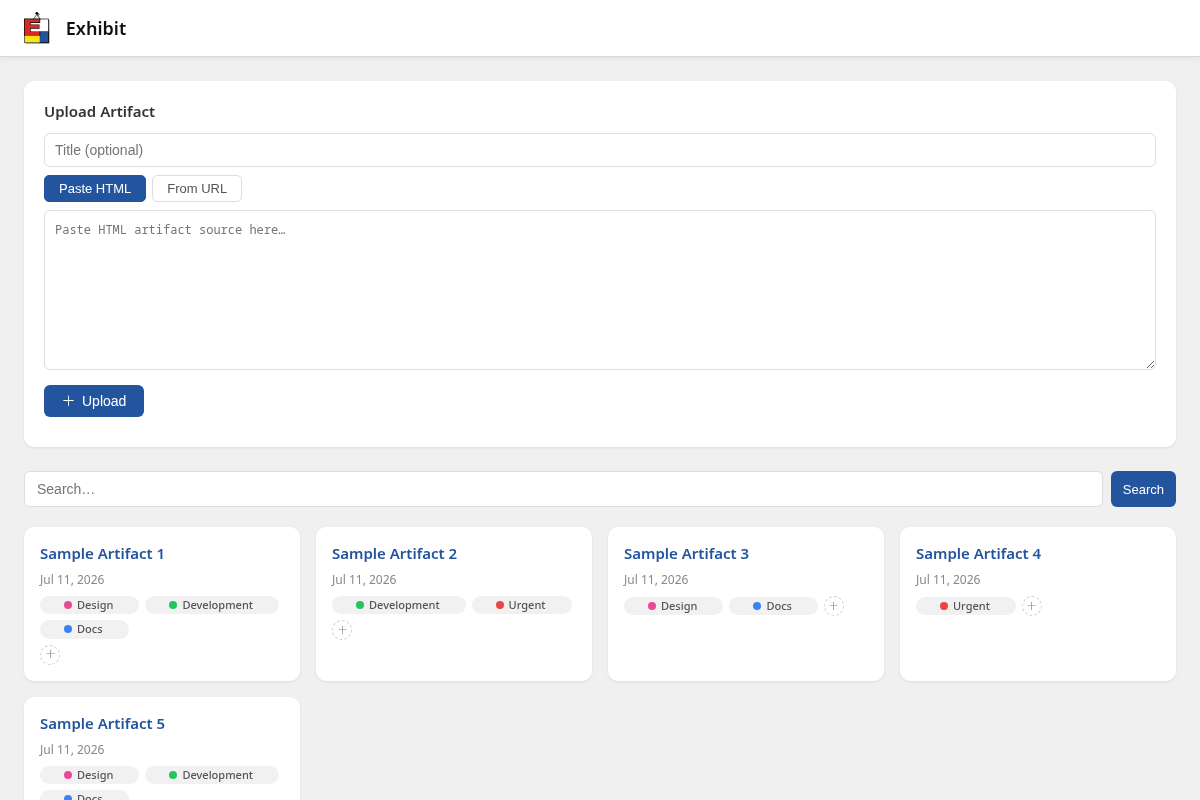
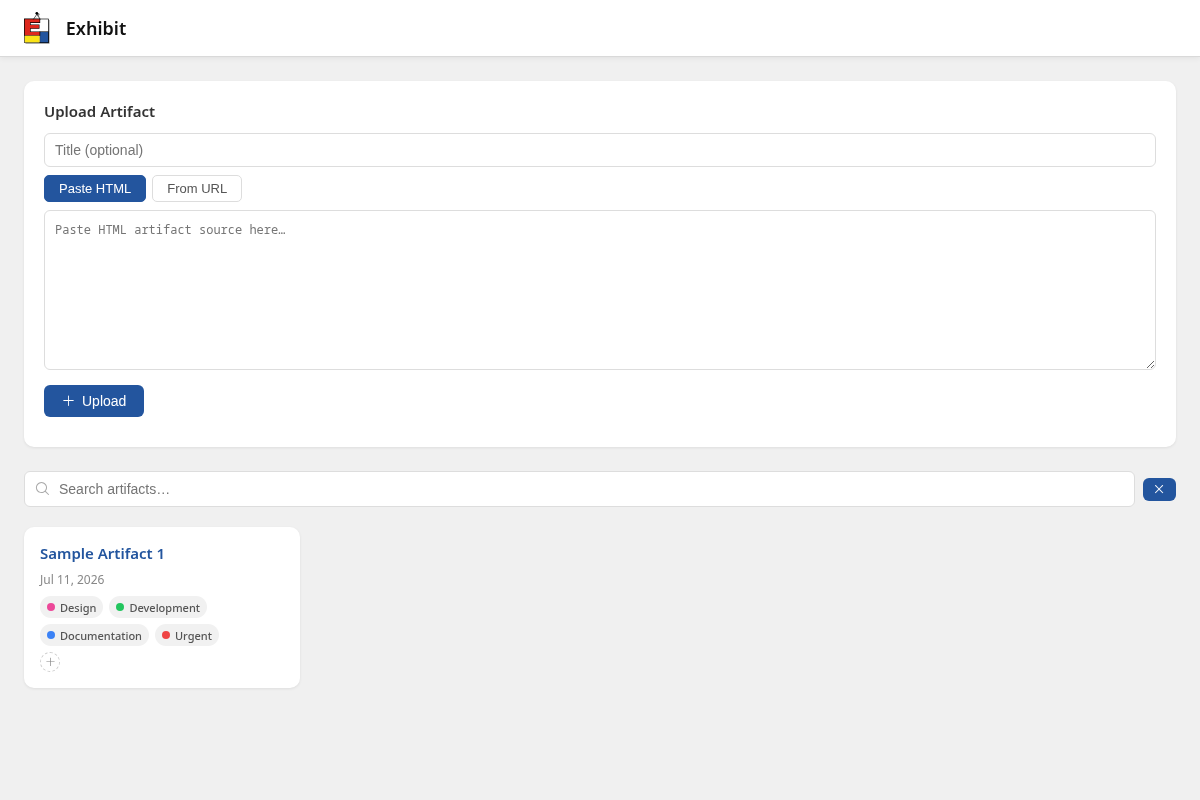
fix(Exh-cbof): center the dot+label group, not the text alone
The dot was absolutely pinned to the left cap while the label was the
sole in-flow flex item left-aligned, so the pill's right padding (24px)
read as a big empty gap and the text looked centered on its own.

Rework the nesting: the dot and label now flow together as one flex group
('.tag-pill' is inline-flex with justify-content:center) and symmetric
padding centers that group. The padding isn't a guess — 22px pill height
gives an 11px cap radius, and padding of 11 - dot_radius(4) = 7px both
(b) centers the [dot label] group (equal left/right gaps) and (c) lands
the dot's center exactly at the left-cap center. The edit/detach hover
controls stay absolutely positioned over the end caps (overlay, no
layout shift); the dot still fades on hover so the pencil takes the cap.

Probed via shot-scraper on Design/Development/Documentation/Urgent:
leftGap==rightGap==7, groupCx==pillCx, dotCx==capCenter==11.

diff --git a/internal/api/gallery_test.go b/internal/api/gallery_test.go
@@ -52,7 +52,11 @@ func TestGalleryIndexRendersTagPills(t *testing.T) {
 
 	// Tags are smaller than the title: pill 11px vs card-title 15px, so the row
 	// never outweighs the artifact name it belongs to.
-	assert.Contains(t, page, `.tag-pill{display:inline-flex;align-items:center;gap:5px;max-width:100%;padding:2px 7px 2px 5px;border-radius:999px;font-size:11px`)
+	assert.Contains(t, page, `.tag-pill{position:relative;display:inline-flex;align-items:center;justify-content:center;max-width:100%;height:22px;gap:5px;padding:0 7px;border-radius:999px;font-size:11px`)
+	// The dot and label flow together as one flex group; symmetric padding
+	// centers that group so the right side isn't padded more than the left.
+	// The dot is NOT absolutely positioned — it is a normal flex item.
+	assert.Contains(t, page, `.tag-dot{flex:0 0 auto;width:8px;height:8px;border-radius:50%;background:#888;transition:opacity .12s ease}`)
 	assert.Contains(t, page, `.card-title{font-size:15px;font-weight:600`)
 }
 
@@ -78,10 +82,12 @@ func TestTagPillHoverControls(t *testing.T) {
 	assert.Contains(t, page, `<button type="button" class="tag-pill-detach" data-tag-id="`+tag.ID+`" data-artifact-id="`+id+`" aria-label="Remove tag charts from this artifact"><i class="ph ph-x"></i></button>`)
 
 	// Hidden-until-hover/focus is CSS-driven (opacity/pointer-events on
-	// .tag-pill-edit/.tag-pill-detach), not a layout property, so revealing
-	// them never shifts the pill.
-	assert.Contains(t, page, `.tag-pill-edit,.tag-pill-detach{display:inline-flex`)
+	// .tag-pill-edit/.tag-pill-detach). The controls are absolutely positioned
+	// over the pill's end caps (overlay) so revealing them never shifts the
+	// pill; the dot fades out when the edit pencil enters the left cap.
+	assert.Contains(t, page, `.tag-pill-edit,.tag-pill-detach{position:absolute`)
 	assert.Contains(t, page, `opacity:0;pointer-events:none`)
+	assert.Contains(t, page, `.tag-pill:hover .tag-dot,.tag-pill:focus-within .tag-dot{opacity:0}`)
 }
 
 func TestGalleryIndexRendersEditTagModal(t *testing.T) {

diff --git a/internal/api/gallery.go b/internal/api/gallery.go
@@ -143,14 +143,17 @@ main{padding:24px;max-width:1200px;margin:0 auto}
 .tag-add-btn:hover,.tag-add-btn:focus-visible{border-color:var(--brand-blue);border-style:solid;color:var(--brand-blue)}
 .tag-add-btn i{font-size:11px;line-height:1}
 .tag-pills{display:flex;flex-wrap:wrap;gap:6px;list-style:none}
-.tag-pill{display:inline-flex;align-items:center;gap:5px;max-width:100%;padding:2px 7px 2px 5px;border-radius:999px;font-size:11px;font-weight:500;line-height:1.3;background:#f1f1f1;color:#555}
-.tag-dot{flex:0 0 auto;width:8px;height:8px;border-radius:50%;background:#888}
+.tag-pill{position:relative;display:inline-flex;align-items:center;justify-content:center;max-width:100%;height:22px;gap:5px;padding:0 7px;border-radius:999px;font-size:11px;font-weight:500;line-height:1;background:#f1f1f1;color:#555}
+.tag-dot{flex:0 0 auto;width:8px;height:8px;border-radius:50%;background:#888;transition:opacity .12s ease}
 .tag-pill-label{overflow-wrap:anywhere}
-.tag-pill-edit,.tag-pill-detach{display:inline-flex;align-items:center;justify-content:center;flex:0 0 auto;width:14px;height:14px;padding:0;border:none;border-radius:50%;background:transparent;color:inherit;font:inherit;cursor:pointer;opacity:0;pointer-events:none;transition:opacity .12s ease,background .12s ease}
+.tag-pill-edit,.tag-pill-detach{position:absolute;top:50%;transform:translateY(-50%);display:inline-flex;align-items:center;justify-content:center;flex:0 0 auto;width:18px;height:18px;padding:0;border:none;border-radius:50%;background:transparent;color:inherit;font:inherit;cursor:pointer;opacity:0;pointer-events:none;transition:opacity .12s ease,background .12s ease}
+.tag-pill-edit{left:2px}
+.tag-pill-detach{right:2px}
 .tag-pill-edit i,.tag-pill-detach i{font-size:11px;line-height:1}
 .tag-pill:hover .tag-pill-edit,.tag-pill:hover .tag-pill-detach,
 .tag-pill:focus-within .tag-pill-edit,.tag-pill:focus-within .tag-pill-detach,
 .tag-pill-edit:focus-visible,.tag-pill-detach:focus-visible{opacity:1;pointer-events:auto}
+.tag-pill:hover .tag-dot,.tag-pill:focus-within .tag-dot{opacity:0}
 .tag-pill-edit:hover,.tag-pill-detach:hover{background:rgba(0,0,0,.15)}
 .empty{color:#888;font-size:14px;padding:20px 0}
 #status{margin-top:10px;font-size:13px;color:#555}